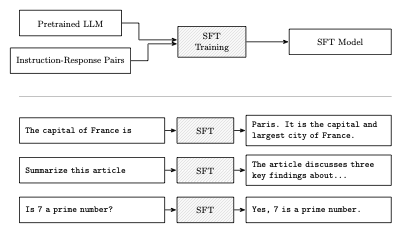
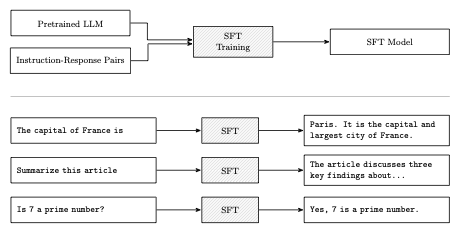
Widen Stage 2 diagram to match Stage 1 figure width
Increase minimum widths of flow boxes and gaps between nodes so the
overall figure width accommodates the example text boxes without
overflow.

diff --git a/Sp26/CSCE775/Project/Proposal_llm_5/survey.tex b/Sp26/CSCE775/Project/Proposal_llm_5/survey.tex
@@ -139,10 +139,10 @@ The scale of SFT data has evolved considerably. Llama 2~\cite{Touvron2023Llama2}
 ]
 
 % ---- Top: Process Flow ----
-\node[flowbox] (pretrained) {Pretrained LLM};
-\node[flowbox, below=0.4cm of pretrained] (data) {Instruction-Response Pairs};
-\node[modelbox, right=1.8cm of $(pretrained.east)!0.5!(data.east)$, minimum width=2.4cm] (sft) {SFT\\Training};
-\node[flowbox, right=1.5cm of sft] (sftmodel) {SFT Model};
+\node[flowbox, minimum width=4.2cm] (pretrained) {Pretrained LLM};
+\node[flowbox, minimum width=4.2cm, below=0.4cm of pretrained] (data) {Instruction-Response Pairs};
+\node[modelbox, right=2.2cm of $(pretrained.east)!0.5!(data.east)$, minimum width=2.8cm] (sft) {SFT\\Training};
+\node[flowbox, minimum width=4.2cm, right=2.0cm of sft] (sftmodel) {SFT Model};
 
 % Arrows from both inputs enter SFT at different heights
 \draw[flowarrow] (pretrained.east) -- ++(0.6cm,0) |- ([yshift=2pt]sft.west);

diff --git a/Sp26/CSCE775/Project/Proposal_llm_5/fig_stage2.tex b/Sp26/CSCE775/Project/Proposal_llm_5/fig_stage2.tex
@@ -15,10 +15,10 @@
 ]
 
 % ---- Top: Process Flow ----
-\node[flowbox] (pretrained) {Pretrained LLM};
-\node[flowbox, below=0.4cm of pretrained] (data) {Instruction-Response Pairs};
-\node[modelbox, right=1.8cm of $(pretrained.east)!0.5!(data.east)$, minimum width=2.4cm] (sft) {SFT\\Training};
-\node[flowbox, right=1.5cm of sft] (sftmodel) {SFT Model};
+\node[flowbox, minimum width=4.2cm] (pretrained) {Pretrained LLM};
+\node[flowbox, minimum width=4.2cm, below=0.4cm of pretrained] (data) {Instruction-Response Pairs};
+\node[modelbox, right=2.2cm of $(pretrained.east)!0.5!(data.east)$, minimum width=2.8cm] (sft) {SFT\\Training};
+\node[flowbox, minimum width=4.2cm, right=2.0cm of sft] (sftmodel) {SFT Model};
 
 % Arrows from both inputs enter SFT at different heights
 \draw[flowarrow] (pretrained.east) -- ++(0.6cm,0) |- ([yshift=2pt]sft.west);
